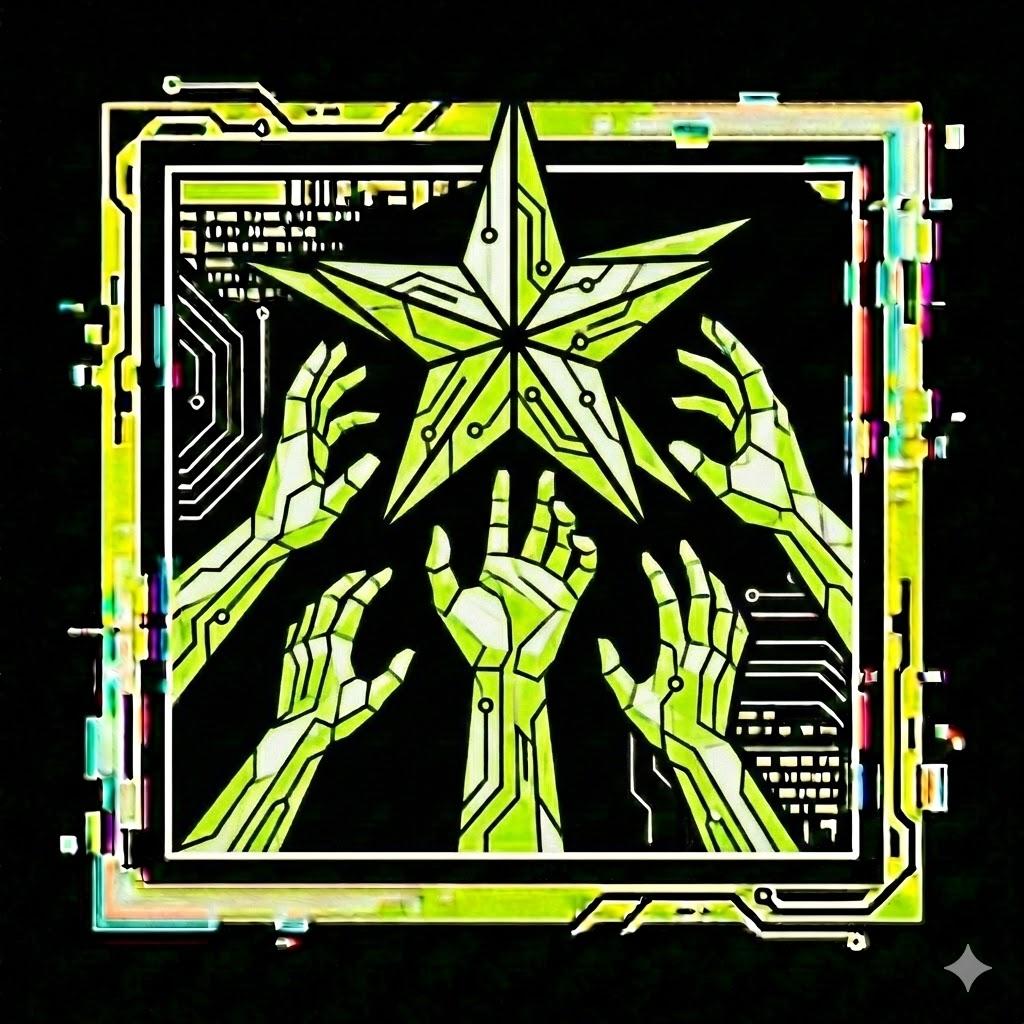
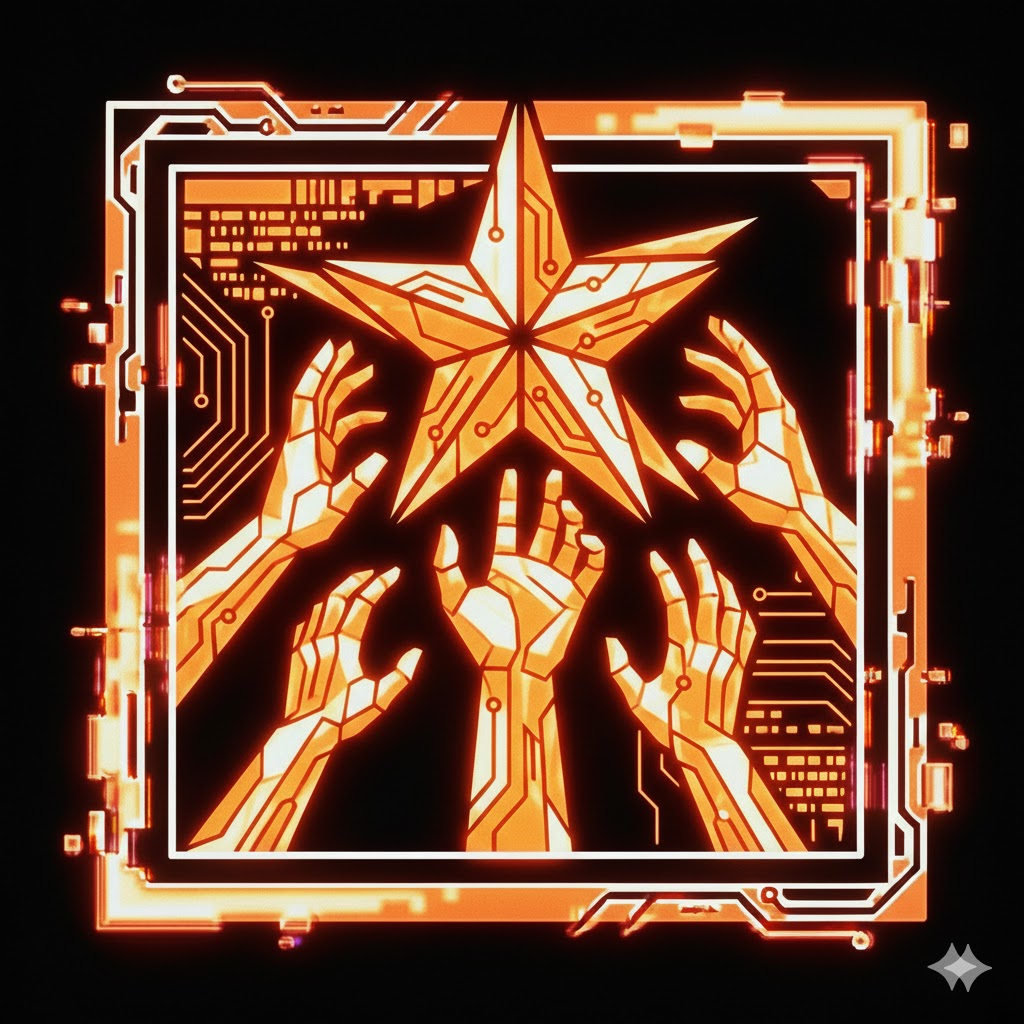
Add Commentator badge for players who comment on every song in a round, include comment field in votes query and analytics hook

diff --git a/src/hooks/useBadges.js b/src/hooks/useBadges.js
@@ -15,6 +15,7 @@ import nonConformistImg from '../assets/badges/non_conformist.jpg'
 import crowdPleaserImg from '../assets/badges/crowd_pleaser.jpg'
 import controversialImg from '../assets/badges/controversial.jpg'
 import hipsterImg from '../assets/badges/hipster.jpg'
+import placeholderImg from '../assets/badges/hipster.jpg'
 
 const BADGE_DEFS = [
   // Performance
@@ -32,6 +33,7 @@ const BADGE_DEFS = [
   { id: 'kingmaker', name: 'Hit Oracle', image: hitOracleImg, category: 'Voting', description: 'Predicted the crowd favourite the most, voting for the round winner more than anyone else' },
   { id: 'stalker', name: 'Stalker', image: stalkerImg, category: 'Voting', description: 'Highest total points given to a single other player' },
   { id: 'nonconformist', name: 'Non-conformist', image: nonConformistImg, category: 'Voting', description: 'Most points given to songs that finished last in their round' },
+  { id: 'commentator', name: 'Commentator', image: placeholderImg, category: 'Voting', description: 'Left a comment on every song in at least one round' },
   // Social
   { id: 'crowd_pleaser', name: 'Crowd Pleaser', image: crowdPleaserImg, category: 'Social', description: 'Most 4-point votes received across all rounds' },
   { id: 'controversial', name: 'Controversial', image: controversialImg, category: 'Social', description: 'Submitted the song with the highest vote variance' },
@@ -367,6 +369,41 @@ export function useBadges(filteredVotes, filteredSubmissions) {
     badgeResults.hipster = pickMax(
       Object.entries(uniqueArtistCount).map(([id, count]) => ({ id, name: nameMap[id] || 'Unknown', stat: count }))
     )
+
+    // 16. Commentator — left a comment on every song in at least one round
+    const roundSongCounts = {} // round_id → total song count
+    filteredSubmissions.forEach(s => {
+      roundSongCounts[s.round_id] = (roundSongCounts[s.round_id] || 0) + 1
+    })
+    
+    const voterComments = {} // voter_id → { round_id → commented_count }
+    filteredVotes.forEach(v => {
+      if (v.comment && v.comment.trim()) {
+        if (!voterComments[v.voter_id]) voterComments[v.voter_id] = {}
+        if (!voterComments[v.voter_id][v.round_id]) voterComments[v.voter_id][v.round_id] = 0
+        voterComments[v.voter_id][v.round_id]++
+      }
+    })
+    
+    const commentatorPlayers = []
+    Object.entries(voterComments).forEach(([voterId, roundData]) => {
+      const completedRounds = []
+      Object.entries(roundData).forEach(([roundId, commentCount]) => {
+        const totalSongs = roundSongCounts[roundId] || 0
+        // They commented on every song in this round (excluding their own submission)
+        if (commentCount === totalSongs - 1 || (commentCount === totalSongs && !filteredSubmissions.some(s => s.submitter_id === voterId && s.round_id === roundId))) {
+          completedRounds.push(roundId)
+        }
+      })
+      if (completedRounds.length > 0) {
+        commentatorPlayers.push({
+          id: voterId,
+          name: nameMap[voterId] || 'Unknown',
+          stat: `${completedRounds.length} round${completedRounds.length > 1 ? 's' : ''}`
+        })
+      }
+    })
+    badgeResults.commentator = commentatorPlayers
 
     // ── Assemble final badges array ──
     return BADGE_DEFS.map(def => ({

diff --git a/src/hooks/useAnalytics.js b/src/hooks/useAnalytics.js
@@ -35,7 +35,7 @@ export function useAnalytics({ team } = {}) {
         }
 
         const [votesData, submissionsData, competitorsData, roundsData] = await Promise.all([
-          fetchAll('votes', 'round_id, spotify_uri, voter_id, points_assigned, imported_at'),
+          fetchAll('votes', 'round_id, spotify_uri, voter_id, points_assigned, comment, imported_at'),
           fetchAll('submissions', 'round_id, spotify_uri, song_name, artists, album, created_at, submitter_id'),
           fetchAll('competitors', 'id, name, team'),
           fetchAll('rounds', 'id, name, created_at, league_id')
@@ -80,6 +80,7 @@ export function useAnalytics({ team } = {}) {
             voter_name: competitorMap[v.voter_id] || 'Unknown',
             voter_team: competitorTeamMap[v.voter_id] || '',
             points_assigned: v.points_assigned,
+            comment: v.comment || '',
             song_name: sub?.song_name || 'Unknown',
             artists: sub?.artists || 'Unknown',
             album: sub?.album || '',
